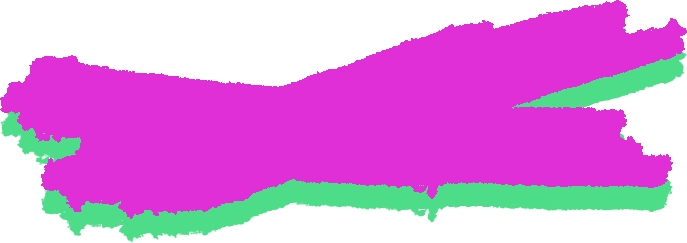
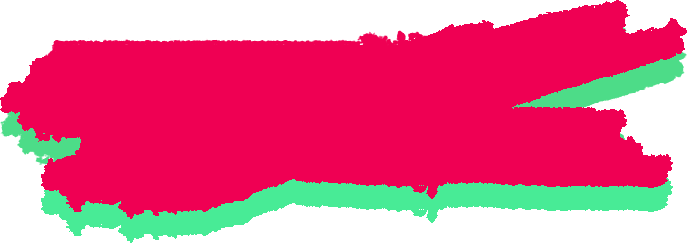
style changes

diff --git a/src/components/About.js b/src/components/About.js
@@ -1,7 +1,7 @@
 import React from 'react';
 import "../css/reset.css";
 import "../css/about.css";
-import image from "../images/about3.png";
+import image from "../images/about4.png";
 import Footer from "./Footer";
 
 const About = () => {
@@ -16,6 +16,8 @@ const About = () => {
                   <div id="abouttitle">
                      <h1>About</h1>
                   </div>
+                  <div id="paragraphcontainer">
+                     <div id="paragraph">
                   <p>
                      I work as a self-employed Mobile Hair Stylist &amp; Barber, servicing 
                      the HRM. I am based in the North end of Halifax, delivering a wide 
@@ -60,6 +62,8 @@ const About = () => {
                      the 2016 &amp; 2017 Nocturne Halifax: Art at Night festival, the 2017 
                      Carnival of Beauty, and the 2017 Atlantic Wedding Showcase.
                   </p>
+                  </div>
+                  </div>
                </div>
 
                <div className="col-xl-5">

diff --git a/src/css/navbar.css b/src/css/navbar.css
@@ -22,7 +22,7 @@ ul {
 
 .link:hover {
     color: rgb(27,27,27);
-    background-image: url("../images/paint_stroke.png");
+    background-image: url("../images/paint_stroke2.png");
     background-size: contain;
     background-repeat: no-repeat;
     background-position: center;

diff --git a/src/css/about.css b/src/css/about.css
@@ -48,6 +48,12 @@ p {
    font-weight: bold;
 }
 
+#paragraphcontainer {
+   background-image: url("../images/paragraph_background2.png");
+   background-size: contain;
+}
+
+
 @media only screen and (max-width: 1000px) {
 
 
